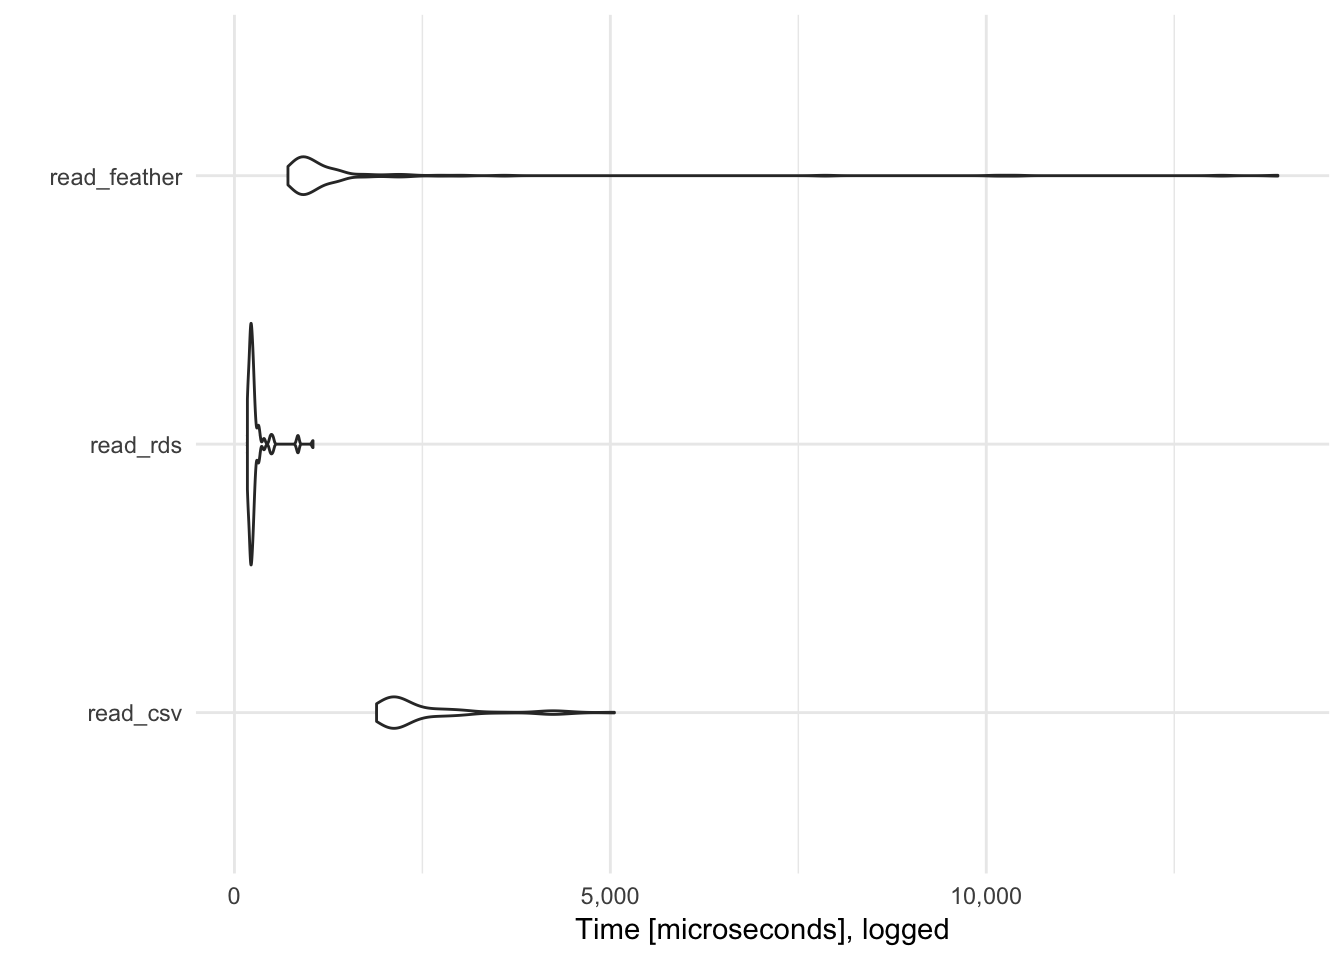
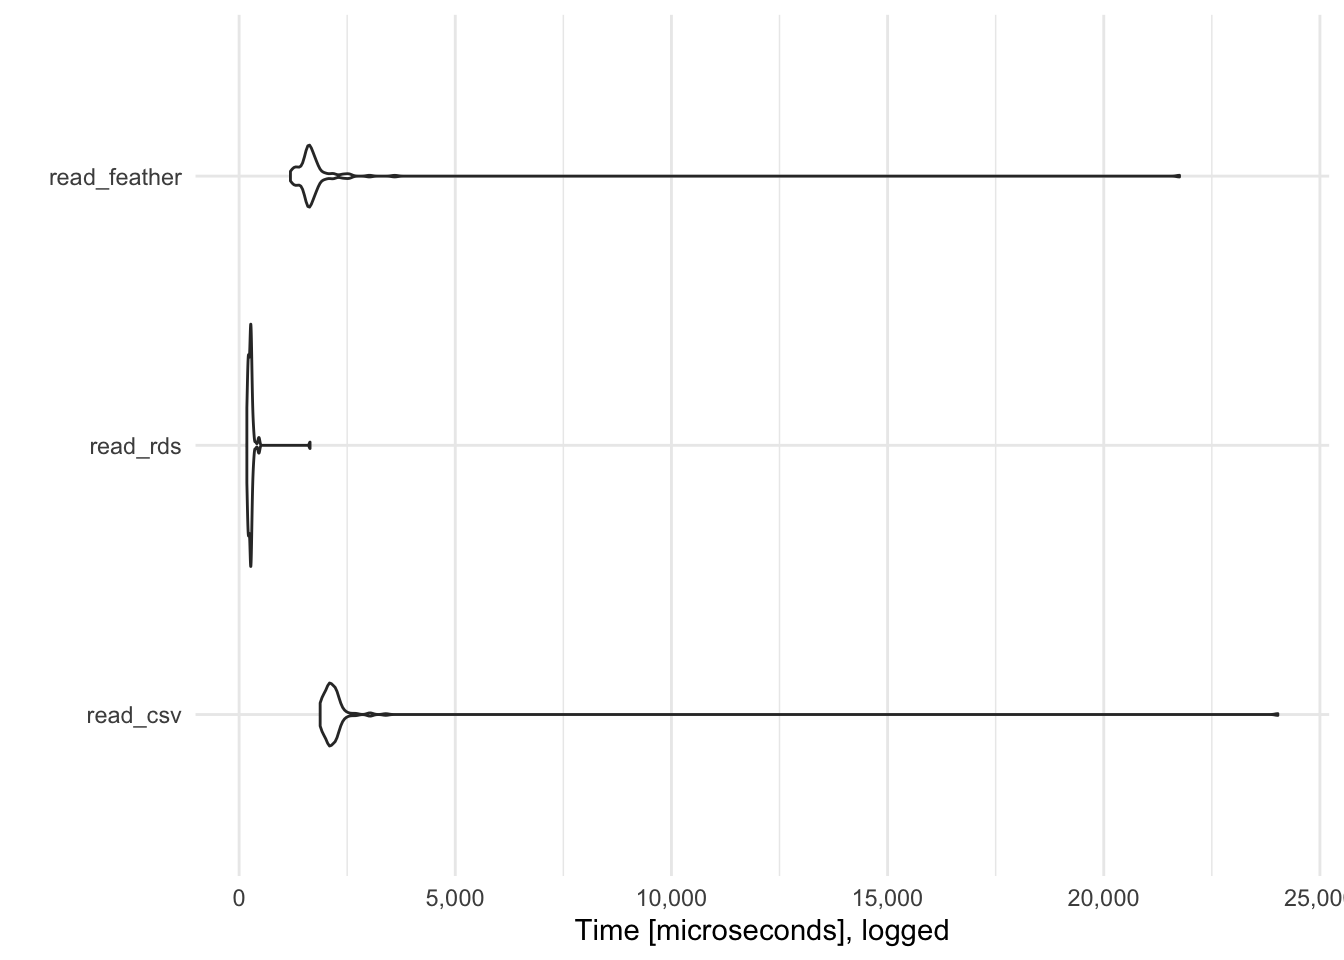
Switch feather package to arrow. Close #191

diff --git a/static/slides/data-wrangling-tidy-data/libs/remark-css/metropolis.css b/static/slides/data-wrangling-tidy-data/libs/remark-css/metropolis.css
@@ -16,28 +16,19 @@
   text-shadow: none;
 }
 
-.remark-slide-content > h1 {
-  font-family: 'Fira Sans';
-  font-weight: normal;
-  font-size: 45px;
-  margin-top: -95px;
-  margin-left: -00px;
-  color: #FAFAFA;
-}
-
-.remark-slide-content > inverse {
-width: 112px;
-height: 47px;
-border-bottom: 1px solid black;
-position: absolute;
-}
-
 /* Removes colored bar from top of the slide resulting in a clear slide */
 .clear{
   border-top: 0px solid #FAFAFA;
 }
 
-.remark-slide-content > h2, h3, h4 {
+h1 {
+  font-weight: normal;
+  margin-top: -95px;
+  margin-left: -00px;
+  color: #FAFAFA;
+}
+
+h2, h3, h4 {
   padding-top: -15px;
   padding-bottom: 00px;
   color: #1A292C;
@@ -48,13 +39,24 @@ position: absolute;
   margin-bottom: -10px;
 }
 
-.remark-slide-content > h2, .pull-left > h2, .pull-right > h2 {
+.remark-slide-content h1 {
+  font-size: 45px;
+}
+
+.remark-slide-content h2 {
   font-size: 35px;
 }
 
-.remark-slide-content > h3, .remark-slide-content > h4,
-.pull-left > h3, .pull-left > h4, .pull-right > h3, .pull-right > h4 {
+.remark-slide-content h3 {
   font-size: 30px;
+}
+
+.left-column h2, .left-column h3, .left-column h4 {
+  color: #777;
+}
+
+.left-column h2:last-of-type, .left-column h3:last-child {
+  color: #1A292C;
 }
 
 .title-slide {
@@ -62,7 +64,7 @@ position: absolute;
   border-top: 80px solid #FAFAFA;
 }
 
-.title-slide > h1  {
+.title-slide h1  {
   color: #1A292C;
   font-size: 40px;
   text-shadow: none;
@@ -71,7 +73,7 @@ position: absolute;
   margin-left: 15px;
   padding-top: 80px;
 }
-.title-slide > h2  {
+.title-slide h2  {
   margin-top: -25px;
   padding-bottom: -20px;
   color: #1A292C;
@@ -81,7 +83,7 @@ position: absolute;
   text-align: left;
   margin-left: 15px;
 }
-.title-slide > h3  {
+.title-slide h3  {
   color: #1A292C;
   text-shadow: none;
   font-weight: 300;
@@ -91,15 +93,34 @@ position: absolute;
   margin-bottom: -30px;
 }
 
+hr, .title-slide h2::after, .mline h1::after {
+  content: '';
+  display: block;
+  border: none;
+  background-color: #EB811B;
+  color: #EB811B;
+  height: 1px;
+}
+
+hr, .mline h1::after {
+  margin: 1em 15px 0 15px;
+}
+
+.title-slide h2::after {
+  margin: 10px 15px 35px 0;
+}
+
+.mline h1::after {
+  margin: 10px 15px 0 15px;
+}
+
 .remark-slide-number {
   font-size: 13pt;
-  font-family: 'Fira Sans';
   color: #272822;
   opacity: 1;
 }
 .inverse .remark-slide-number {
   font-size: 13pt;
-  font-family: 'Fira Sans';
   color: #FAFAFA;
   opacity: 1;
 }

diff --git a/static/slides/data-wrangling-tidy-data/index.html b/static/slides/data-wrangling-tidy-data/index.html
@@ -1,5 +1,5 @@
 <!DOCTYPE html>
-<html xmlns="http://www.w3.org/1999/xhtml" lang="" xml:lang="">
+<html lang="" xml:lang="">
   <head>
     <title>Data wrangling: tidy data</title>
     <meta charset="utf-8" />
@@ -672,7 +672,6 @@ table2 %&gt;%
 <script src="https://remarkjs.com/downloads/remark-latest.min.js"></script>
 <script src="https://cfss.uchicago.edu/slides/macros.js"></script>
 <script src="https://platform.twitter.com/widgets.js"></script>
-<script src="https://www.redditstatic.com/comment-embed.js"></script>
 <script>var slideshow = remark.create({
 "highlightLanguage": "r",
 "highlightStyle": "github",
@@ -717,7 +716,24 @@ if (window.HTMLWidgets) slideshow.on('afterShowSlide', function (slide) {
     }
     deleted = true;
   });
-})();</script>
+})();
+// adds .remark-code-has-line-highlighted class to <pre> parent elements
+// of code chunks containing highlighted lines with class .remark-code-line-highlighted
+(function(d) {
+  const hlines = d.querySelectorAll('.remark-code-line-highlighted');
+  const preParents = [];
+  const findPreParent = function(line, p = 0) {
+    if (p > 1) return null; // traverse up no further than grandparent
+    const el = line.parentElement;
+    return el.tagName === "PRE" ? el : findPreParent(el, ++p);
+  };
+
+  for (let line of hlines) {
+    let pre = findPreParent(line);
+    if (pre && !preParents.includes(pre)) preParents.push(pre);
+  }
+  preParents.forEach(p => p.classList.add("remark-code-has-line-highlighted"));
+})(document);</script>
 
 <script>
 (function() {
